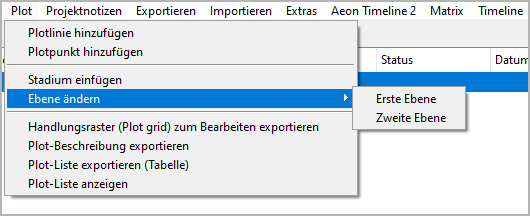
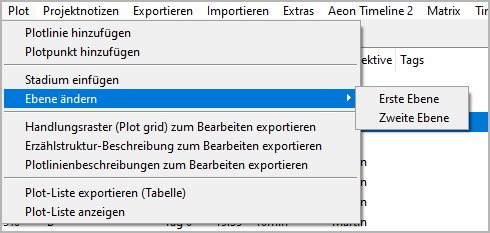
Update screenshots for v3.7

diff --git a/source/conf.py b/source/conf.py
@@ -9,8 +9,8 @@
 project = 'novelibre Benutzerhandbuch'
 copyright = '2024, peter88213'
 author = 'Peter Triesberger'
-version = 'Version 3.4+'
-release = '3.4.0'
+version = 'Version 3.7+'
+release = '3.7.1'
 # The release is related to the novelibre application's major/minor version numbers.
 
 # -- General configuration ---------------------------------------------------
